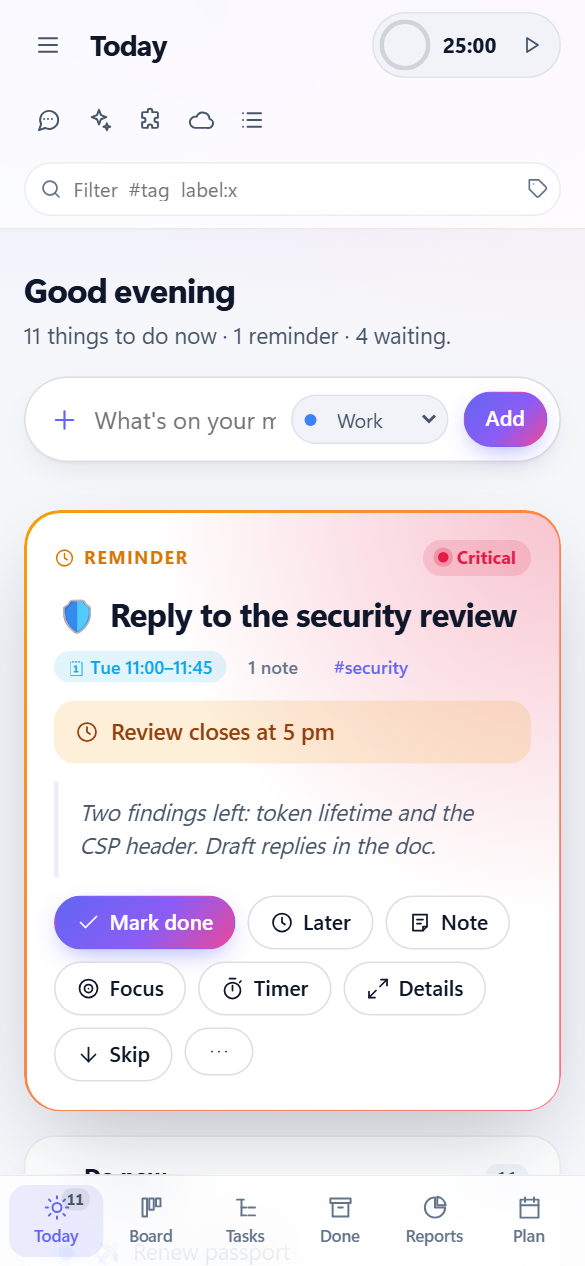
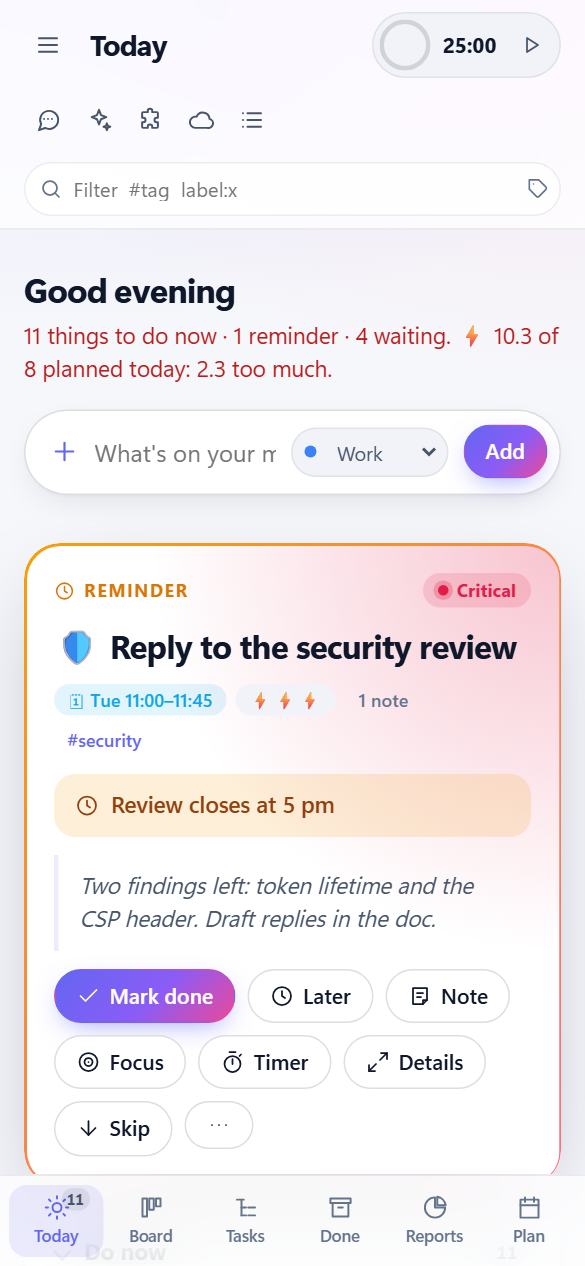
Energy: its own line in the sidebar (red past the day's energy); demo screenshots show energy

diff --git a/src/TodoTracker.Windows/MainWindow.xaml b/src/TodoTracker.Windows/MainWindow.xaml
@@ -267,6 +267,18 @@
                 <StackPanel Margin="10,0,0,0" VerticalAlignment="Center">
                     <TextBlock Text="Todo Tracker" FontWeight="Bold" FontSize="14.5" FontFamily="Segoe UI Variable Display, Segoe UI" />
                     <TextBlock Text="{Binding Summary}" Style="{StaticResource Muted}" FontSize="11.5" TextTrimming="CharacterEllipsis" TextWrapping="NoWrap" />
+                    <TextBlock x:Name="EnergyLine" Text="{Binding EnergyText}" FontSize="11.5" TextTrimming="CharacterEllipsis" TextWrapping="NoWrap"
+                               Visibility="{Binding EnergyText, Converter={StaticResource VisibleWhen}}" ToolTip="Energy: each planned block's hours × its task's ⚡ an hour, against what you have in a day">
+                        <TextBlock.Style>
+                            <Style TargetType="TextBlock" BasedOn="{StaticResource Muted}">
+                                <Style.Triggers>
+                                    <DataTrigger Binding="{Binding EnergyOver}" Value="True">
+                                        <Setter Property="Foreground" Value="{StaticResource Danger}" />
+                                    </DataTrigger>
+                                </Style.Triggers>
+                            </Style>
+                        </TextBlock.Style>
+                    </TextBlock>
                 </StackPanel>
             </DockPanel>
 

diff --git a/tests/TodoTracker.Desktop.Tests/SidebarViewModelTests.cs b/tests/TodoTracker.Desktop.Tests/SidebarViewModelTests.cs
@@ -640,19 +640,19 @@ public sealed class SidebarViewModelTests : IDisposable
         var item = await Seed("Design doc");
         await _store.UpdateAsync(b => b.Plan(item.Id, T0, 120, Actor.User, T0));
         await _vm.RefreshAsync();
-        Assert.EndsWith("⚡ 2 of 10 planned today.", _vm.Summary, StringComparison.Ordinal);
+        Assert.Equal("⚡ 2 of 10 planned today.", _vm.EnergyText);
 
         await _vm.SetEnergyCommand.ExecuteAsync(new CardEnergyRequest(_vm.Focus!, 3));
         await _vm.SetDailyEnergyCommand.ExecuteAsync(4);
         Assert.Equal(3, _vm.Focus!.Energy);
         Assert.Contains(_vm.Focus.Chips, c => c.Text == "⚡⚡⚡" && c.Tone == "energy");
-        Assert.EndsWith("⚡ 6 of 4 planned today: 2 too much.", _vm.Summary, StringComparison.Ordinal);
+        Assert.Equal("⚡ 6 of 4 planned today: 2 too much.", _vm.EnergyText);
         Assert.True(_vm.EnergyOver);
 
         // The Energy extra switched off: no energy anywhere in the sidebar.
         _vm.ShowEnergy = false;
         await _vm.RefreshAsync();
-        Assert.DoesNotContain("⚡", _vm.Summary, StringComparison.Ordinal);
+        Assert.Null(_vm.EnergyText);
         Assert.DoesNotContain(_vm.Focus!.Chips, c => c.Tone == "energy");
     }
 

diff --git a/src/TodoTracker.Desktop/SidebarViewModel.cs b/src/TodoTracker.Desktop/SidebarViewModel.cs
@@ -190,7 +190,8 @@ public sealed partial class SidebarViewModel : ObservableObject, IDisposable
         WaitingCount = snapshot.Waiting.Count;
         HasAttention = snapshot.HasAttention;
         NextUpText = snapshot.NextUp;
-        Summary = SummaryLine(snapshot.NowCount, snapshot.Reminders, snapshot.Waiting.Count) + (snapshot.Energy is { } energy ? " " + energy : string.Empty);
+        Summary = SummaryLine(snapshot.NowCount, snapshot.Reminders, snapshot.Waiting.Count);
+        EnergyText = snapshot.Energy;
         EnergyOver = snapshot.EnergyOver;
         Pomodoro.Update(snapshot.Pomodoro, snapshot.PomodoroItem, now);
         Break.Update(snapshot.Pomodoro, now, snapshot.NextFocus);
@@ -356,6 +357,10 @@ public sealed partial class SidebarViewModel : ObservableObject, IDisposable
     public partial bool ShowEnergy { get; set; } = true;
 
     partial void OnShowEnergyChanged(bool value) => QueueRefresh();
+
+    /// <summary>Today's energy ("⚡ 4.5 of 10 planned today."), once something is planned today; null: nothing to say.</summary>
+    [ObservableProperty]
+    public partial string? EnergyText { get; set; }
 
     /// <summary>Today's plan takes more energy than there is in a day.</summary>
     [ObservableProperty]
